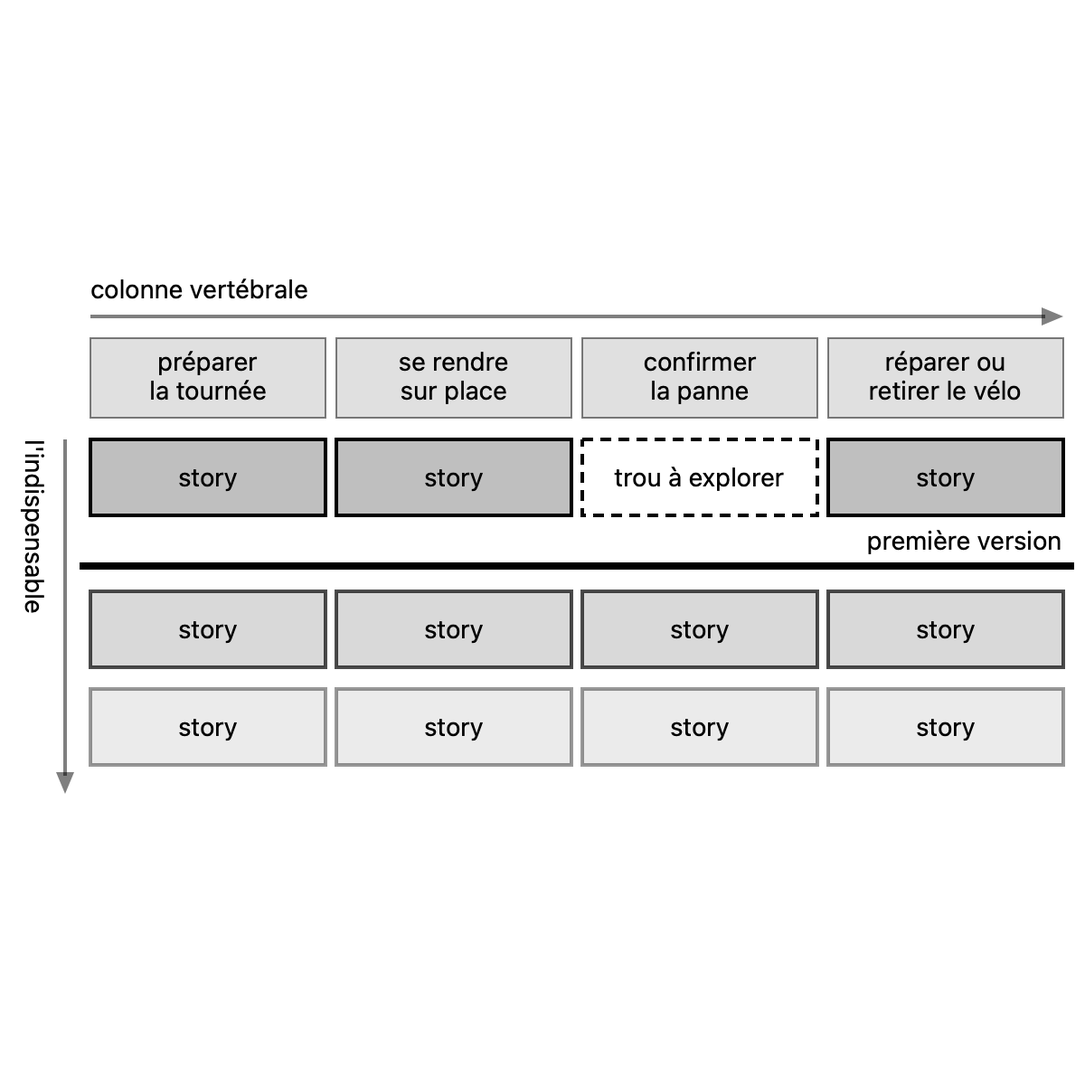
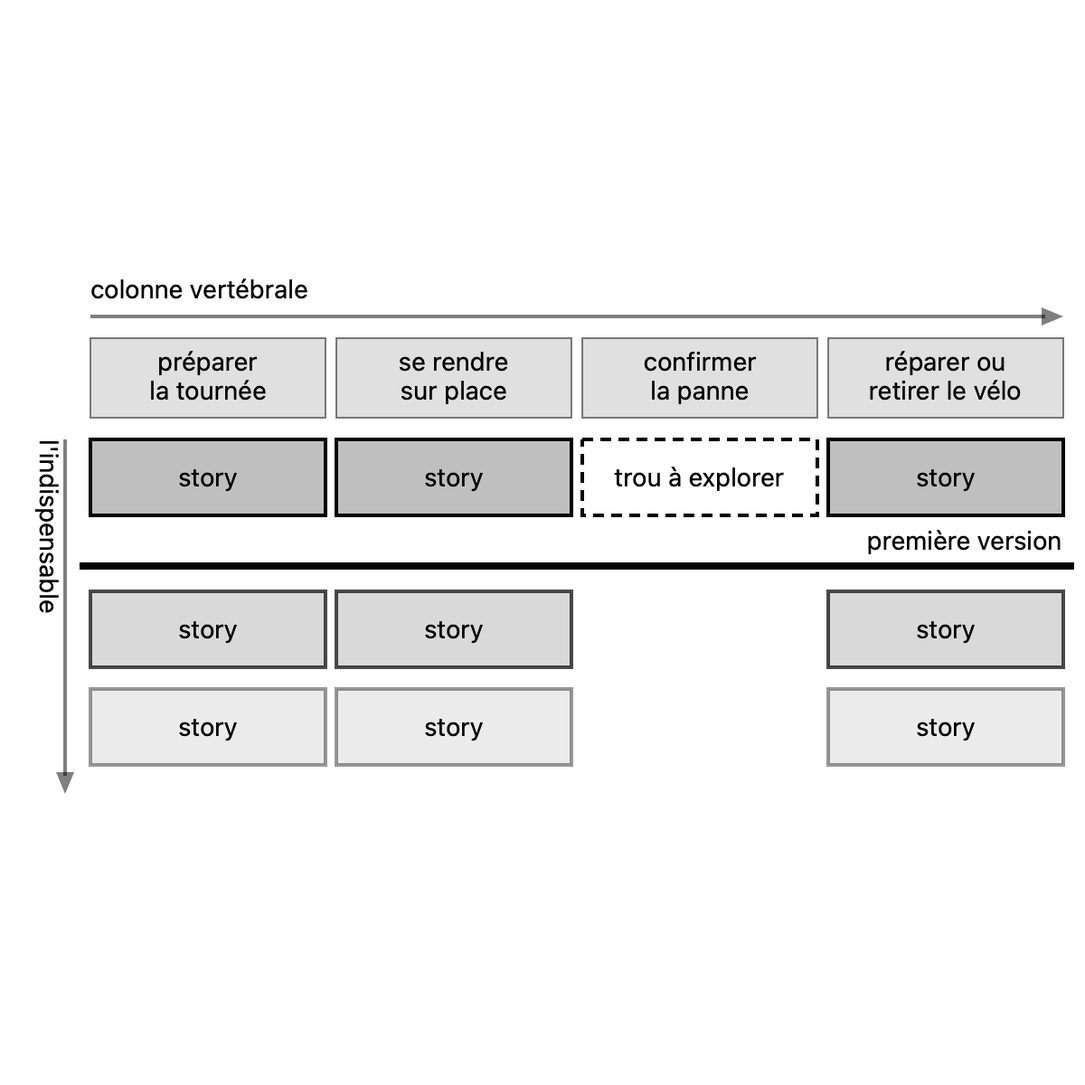
course(course:parcours-po): fix the review findings of concept 16

Changed region(s): [[0.5242, 0.5242, 0.7708, 0.7092], [0.0, 0.4008, 0.0617, 0.5858]]

diff --git a/courses/parcours-po/concepts/16-story-map/sources.md b/courses/parcours-po/concepts/16-story-map/sources.md
@@ -1,8 +1,7 @@
 Ce fichier couvre ce que le fichier du concept affirme, d'après sa ligne de
 `plan.md` et les promesses des concepts déjà écrits (5a1 et
 Pièges de 5 : le parcours organise les stories en story map ; 2 : une mesure de succès par
-version, Patton ; 13 : « pour quand ? » renvoyé en 16c). Les faits du fil rouge (la journée de
-Étienne, fait F7 ; ses vues ; « première version : le point du matin » ; Étienne qui demande
+version, Patton ; 13 : « pour quand ? » renvoyé en 16c). Les faits du fil rouge (la journée d'Étienne, fait F7 ; ses vues ; « première version : le point du matin » ; Étienne qui demande
 « pour quand ? ») sont inventés et n'ont pas de source.
 
 Deux écarts entre les sources et les consignes du lot sont relevés (détail en « Non vérifié ») : chez Patton, une tranche de version traverse toute la
@@ -15,41 +14,41 @@ Guide 2020 ne dit pas qui fait la prévision d'une version.
 |---|---|---|---|
 | La story map est une pratique de Jeff Patton : un choix d'école, pas un texte de consensus (Consensus et choix d'école, 16a) | [S2], [S3], [S4], [S1] | Patton la décrit sur son site (2008) et dans son mémo « Story Map Concepts » (2013) ; livre avec Peter Economy, O'Reilly, 2014. Le Scrum Guide 2020 ne la nomme pas (« story » : aucune occurrence, déjà vérifié en `concepts/05-user-story/sources.md`) | école |
 | En haut de la carte, les activités de l'utilisateur, de gauche à droite dans l'ordre où l'on raconte sa journée ou son parcours : la colonne vertébrale (16a, Schéma) | [S3], [S2] | Mémo : « Activities organize tasks done by similar people at similar times to reach a goal » ; « The left to right axis in a story map is organized in the order you'd tell the story about your user » ; « Activities and tasks at a higher goal level give the story map it's structure. The backbone is arranged in a narrative flow. » Article de 2008 : « At the top of the map are "big stories." I call them user activities » ; les éléments du haut ressemblent à des vertèbres, d'où « backbone ». La colonne vertébrale contient les activités et les tâches de haut niveau, pas les activités seules | école |
-| Partir d'une journée type de l'utilisateur (16a, Consignes et situation de la journée d'Étienne) | [S3] | Mémo, étape « Map the Big Picture » : « Imagine a typical day in your user's life with your new product. Map the steps they take as user tasks left to right. » Appui direct pour la journée d'Étienne | école |
+| Partir d'une journée type de l'utilisateur (16a, Consignes) | [S3] | Mémo, étape « Map the Big Picture » : « Imagine a typical day in your user's life with your new product. Map the steps they take as user tasks left to right. » Appui direct pour la journée d'Étienne | école |
 | Les stories se rangent sous l'activité qu'elles servent, de haut en bas : en haut ce qui est indispensable, plus bas ce qui l'est moins (16a) | [S2], [S3] | Article de 2008 : « I don't prioritize the backbone. It just "is." I do prioritize the ribs » ; « Place them high to indicate they're absolutely necessary, lower to indicate they're less necessary. » Mémo : les sous-tâches, détails et variantes « hang down to form the ribs » | école |
-| Les tâches de l'utilisateur font de bons titres de story ; la tâche va après « je veux », l'activité après « afin de » (16a, « Ce qui marche » de « La journée d'Étienne rangée par vues ») | [S3] | Mémo : « User Tasks make great story titles! » ; « the task fits nicely right after "I want to," the activity fits nicely right after "so that…" ». Rattache la carte au format de story (5) | école |
+| Les tâches de l'utilisateur font de bons titres de story ; la tâche va après « je veux », l'activité après « afin de » (banque « La journée d'Étienne rangée par vues », « Ce qui marche ») | [S3] | Mémo : « User Tasks make great story titles! » ; « the task fits nicely right after "I want to," the activity fits nicely right after "so that…" ». Rattache la carte au format de story (5) | école |
 | La carte sert à voir le tout, pas à décrire un flux avec la précision d'un modèle de processus (16a, Consignes et banque « La journée d'Étienne rangée par vues ») | [S3] | Mémo : « Story maps are for looking at the big picture » ; « If you're looking for the precision of a workflow model, flow chart, or UML model, then a story map isn't your best choice. » | école |
-| La carte complète le backlog ordonné, elle ne le remplace pas ; le PO garde l'ordre (16a, renvoi 1b, 13) | [S1], [S2] ; `concepts/01-produit-et-po/sources.md`, `concepts/13-ordonner-backlog/sources.md` | SG 2020 : le backlog est « an emergent, ordered list », « the single source of work » ; le PO répond de l'ordre (déjà vérifié en 1b, 13). Patton va plus loin : la carte est « a better version of a product backlog », et il regrette qu'on la jette « in favor of putting stories into a flat-backlog ». « Complète, ne remplace pas » est donc un choix du cours, compatible avec le SG (une seule liste ordonnée) ; ce n'est pas la position de Patton. Voir « Non vérifié » | cours |
-| Piège : prendre la carte pour la hiérarchie epic, feature, story (Pièges, renvoi 4) | [S3] ; `concepts/04-hierarchie/sources.md` | Les lignes de la carte sont des niveaux d'objectif de l'utilisateur (« Summary », « Functional », « Sub-Functional ») et un axe narratif, pas des niveaux de découpage du travail : mémo, encadré « Goal-Level ». Que des apprenants confondent les deux : choix du cours (les deux ont des niveaux empilés), sans source externe | cours |
-| Ce que la carte montre et que l'arbre de 4 ne montre pas : une même vue a des stories sous plusieurs activités ; une activité sans story se voit, comme un trou à explorer avec l'utilisateur (banque « La journée d'Étienne rangée par vues », 16b1) | [S3] ; `concepts/04-hierarchie/sources.md` | Ajout de la rédaction. Choix du cours, déduit de la structure de la carte (stories rangées sous l'activité qu'elles servent, [S3] « Story maps are for looking at the big picture ») ; « trou à explorer » n'est pas une formule de Patton. Qu'une tranche ne soit pas complète tant qu'un trou n'est pas exploré, et que l'utilisateur dise si sa journée tient sans l'activité vide : choix du cours, déduit de « span the users and use of the product » [S3]. Les stories d'Étienne et leur moment sont des propos d'exercice | cours |
-| Deux stories de deux colonnes et de la même tranche n'ont pas d'ordre entre elles sur la carte ; la carte ne donne pas d'ordre unique (banque « On peut supprimer le backlog ? ») | [S2] ; `concepts/03-backlog-produit/sources.md` | Ajout de la rédaction. Patton ordonne les stories de haut en bas sous chaque activité (« Place them high to indicate they're absolutely necessary ») ; la carte ne donne pas d'ordre unique entre colonnes : choix du cours, à l'appui du choix « la carte complète le backlog » (voir « Non vérifié ») | cours |
+| La carte complète le backlog ordonné, elle ne le remplace pas ; le PO garde l'ordre (16a) | [S1], [S2] ; `concepts/01-produit-et-po/sources.md`, `concepts/13-ordonner-backlog/sources.md` | SG 2020 : le backlog est « an emergent, ordered list », « the single source of work » ; le PO répond de l'ordre (déjà vérifié en 1b, 13). Patton va plus loin : la carte est « a better version of a product backlog », et il regrette qu'on la jette « in favor of putting stories into a flat-backlog ». « Complète, ne remplace pas » est donc un choix du cours, compatible avec le SG (une seule liste ordonnée) ; ce n'est pas la position de Patton. Voir « Non vérifié » | cours |
+| Piège : prendre la carte pour la hiérarchie epic, feature, story (Pièges) | [S3] ; `concepts/04-hierarchie/sources.md` | Les lignes de la carte sont des niveaux d'objectif de l'utilisateur (« Summary », « Functional », « Sub-Functional ») et un axe narratif, pas des niveaux de découpage du travail : mémo, encadré « Goal-Level ». Que des apprenants confondent les deux : choix du cours (les deux ont des niveaux empilés), sans source externe | cours |
+| Ce que la carte montre et que l'arbre de 4 ne montre pas : une même vue a des stories sous plusieurs activités ; une activité sans story se voit, comme un trou à explorer avec l'utilisateur (16a, banque « La journée d'Étienne rangée par vues ») | [S3] ; `concepts/04-hierarchie/sources.md` | Ajout de la rédaction. Choix du cours, déduit de la structure de la carte (stories rangées sous l'activité qu'elles servent, [S3] « Story maps are for looking at the big picture ») ; « trou à explorer » n'est pas une formule de Patton. Qu'une tranche ne soit pas complète tant qu'un trou n'est pas exploré, et que l'utilisateur dise si sa journée tient sans l'activité vide : choix du cours, déduit de « span the users and use of the product » [S3]. Les stories d'Étienne et leur moment sont des propos d'exercice | cours |
+| Deux stories de deux colonnes et de la même tranche n'ont pas d'ordre entre elles sur la carte ; la carte ne donne pas d'ordre unique (16a, banque « On peut supprimer le backlog ? ») | [S2] ; `concepts/03-backlog-produit/sources.md` | Ajout de la rédaction. Patton ordonne les stories de haut en bas sous chaque activité (« Place them high to indicate they're absolutely necessary ») ; la carte ne donne pas d'ordre unique entre colonnes : choix du cours, à l'appui du choix « la carte complète le backlog » (voir « Non vérifié ») | cours |
 | Une tranche de version : une ligne tracée en travers de la carte qui regroupe les stories d'une version ; ce n'est pas une tranche horizontale au sens du concept 9 (16b1, Explication et erreurs fréquentes) | [S3], [S2] | Mémo : « Use a tape line to identify slices of tasks » ; article de 2008 : une bande de ruban adhésif crée « horizontal swim lanes for each release » | école |
-| La première version utile : le plus petit ensemble de stories qui permet aux utilisateurs visés d'atteindre leur but (16b) | [S3] | Mémo : « The smallest number of tasks that allow your specific target users to reach their goal compose a viable product release. » | école |
-| La tranche traverse toute la colonne vertébrale (16b ; écart avec la situation « première version : le point du matin ») | [S3], [S2] | Mémo, étape 4 : « Slice your map into holistic product releases that span the users and use of the product. » Article de 2008 : la colonne vertébrale ne se priorise pas, « we'll need all of them to deliver a minimum viable product » ; « That way we never release a car without brakes ». Chez Patton, la première tranche prend un peu de chaque activité, pas une activité entière. Voir « Non vérifié » | école |
-| Une version vise un résultat ; on l'écrit à côté de la tranche (16b, renvoi 2) | [S3] | Mémo : « Identify the target outcomes of your slice in a sticky note or card to the left of the slice » ; étape 4 : « For each release name the target outcomes and Impact. » | école |
-| Une mesure de succès par version (Patton), dite sans cible chiffrée (16b ; promesse de 2) | [S3] | Mémo, étape 4 : « For each release, identify product success metrics. Answer the question: "what would we measure to determine if this product was successful?" Ideally you'll find specific changes in user's behavior ». Patton demande quoi mesurer, il ne demande pas de cible : la mesure se nomme sans chiffre (la cible reste non fixée au fil rouge). Confirme ce que `concepts/02-objectif-produit-resultat/sources.md` [S17] tenait du cadrage | école |
-| Première version pensée comme une couche : un piège (Pièges, renvoi 9) | [S2], [S3] ; `concepts/09-decoupage-vertical/sources.md` | Article de 2008 : on construit « not a feature at a time, but rather by building up all major features a little at a time », en avançant « left to right, and top to bottom ». La tranche verticale est déjà sourcée en 9 (Wake, Lawrence) : renvoi | cours |
-| MVP au sens de Ries : la version d'un nouveau produit qui permet d'apprendre le plus sur les clients pour le moindre effort (16b, glossaire ; repris en 17) | [S5] | Ries, 3 août 2009 : « the minimum viable product is that version of a new product which allows a team to collect the maximum amount of validated learning about customers with the least effort. » Source primaire (blog de l'auteur). Le livre *The Lean Startup* (2011) n'a pas été lu | école |
+| La première version utile : le plus petit ensemble de stories qui permet aux utilisateurs visés d'atteindre leur but (16b1) | [S3] | Mémo : « The smallest number of tasks that allow your specific target users to reach their goal compose a viable product release. » | école |
+| La tranche traverse toute la colonne vertébrale (16b1 ; banque « Le point du matin d'abord ») | [S3], [S2] | Mémo, étape 4 : « Slice your map into holistic product releases that span the users and use of the product. » Article de 2008 : la colonne vertébrale ne se priorise pas, « we'll need all of them to deliver a minimum viable product » ; « That way we never release a car without brakes ». Chez Patton, la première tranche prend un peu de chaque activité, pas une activité entière. Voir « Non vérifié » | école |
+| Une version vise un résultat ; on l'écrit à côté de la tranche (16b1) | [S3] | Mémo : « Identify the target outcomes of your slice in a sticky note or card to the left of the slice » ; étape 4 : « For each release name the target outcomes and Impact. » | école |
+| Une mesure de succès par version (Patton), dite sans cible chiffrée (16b1) | [S3] | Mémo, étape 4 : « For each release, identify product success metrics. Answer the question: "what would we measure to determine if this product was successful?" Ideally you'll find specific changes in user's behavior ». Patton demande quoi mesurer, il ne demande pas de cible : la mesure se nomme sans chiffre (la cible reste non fixée au fil rouge). Confirme ce que `concepts/02-objectif-produit-resultat/sources.md` [S17] tenait du cadrage | école |
+| Première version pensée comme une couche : un piège (16b1, Pièges) | [S2], [S3] ; `concepts/09-decoupage-vertical/sources.md` | Article de 2008 : on construit « not a feature at a time, but rather by building up all major features a little at a time », en avançant « left to right, and top to bottom ». La tranche verticale est déjà sourcée en 9 (Wake, Lawrence) : renvoi | cours |
+| MVP au sens de Ries : la version d'un nouveau produit qui permet d'apprendre le plus sur les clients pour le moindre effort (16b2) | [S5] | Ries, 3 août 2009 : « the minimum viable product is that version of a new product which allows a team to collect the maximum amount of validated learning about customers with the least effort. » Source primaire (blog de l'auteur). Le livre *The Lean Startup* (2011) n'a pas été lu | école |
 | Chez Ries, le MVP n'est pas un produit au rabais : piège « MVP pris pour une version bâclée » (Pièges) | [S5] | Ries : « MVP, despite the name, is not about creating minimal products » ; la définition « requires judgment » selon le contexte. Appui pour le piège ; « bâclée » est le mot du cours | école |
-| L'usage courant : le MVP est la première version, avec juste assez pour servir les premiers utilisateurs (16b, glossaire) | [S6], [S3] | Wikipédia : « a version of a product with just enough features to be usable by early customers who can then provide feedback ». Patton lui-même emploie le terme dans ce sens : chaque version de sa carte est « a minimal viable product release » (mémo, étape 4). Source secondaire pour l'usage courant ; l'exemple de Patton est primaire |  |
-| Patton emploie « walking skeleton » pour la première tranche : un autre usage que celui du cours, qui réserve le terme au sens de Cockburn (16b, renvoi 9, glossaire) | [S2], [S3] ; `concepts/09-decoupage-vertical/sources.md` [S8] | Article de 2008 : les stories du haut décrivent « the smallest possible system you could build that would give you end to end functionality. This is what Alistair Cockburn refers to as the "walking skeleton". I always try to build this first. » Mémo : les tranches servent à repérer « small experiments, minimal viable product releases, or a "walking skeleton" version of your product » ; la phase « Opening Game » de la première version construit « a "functional walking skeleton" […] the simplest possible functional version of the product ». Patton rattache donc lui-même le terme à Cockburn mais l'applique à une version utilisable ; Cockburn le définit comme une implémentation qui relie les composants de l'architecture (vérifié en 9). À dire comme un autre usage, sans l'enseigner | école |
+| L'usage courant : le MVP est la première version, avec juste assez pour servir les premiers utilisateurs (16b2) | [S6], [S3] | Wikipédia : « a version of a product with just enough features to be usable by early customers who can then provide feedback ». Patton lui-même emploie le terme dans ce sens : chaque version de sa carte est « a minimal viable product release » (mémo, étape 4). Source secondaire pour l'usage courant ; l'exemple de Patton est primaire |  |
+| Patton emploie « walking skeleton » pour la première tranche : un autre usage que celui du cours, qui réserve le terme au sens de Cockburn (16b1, Pièges) | [S2], [S3] ; `concepts/09-decoupage-vertical/sources.md` [S8] | Article de 2008 : les stories du haut décrivent « the smallest possible system you could build that would give you end to end functionality. This is what Alistair Cockburn refers to as the "walking skeleton". I always try to build this first. » Mémo : les tranches servent à repérer « small experiments, minimal viable product releases, or a "walking skeleton" version of your product » ; la phase « Opening Game » de la première version construit « a "functional walking skeleton" […] the simplest possible functional version of the product ». Patton rattache donc lui-même le terme à Cockburn mais l'applique à une version utilisable ; Cockburn le définit comme une implémentation qui relie les composants de l'architecture (vérifié en 9). À dire comme un autre usage, sans l'enseigner | école |
 | La planification d'une version n'est pas dans le Scrum Guide 2020 ; elle relève des référentiels de PO, rangés en consensus (pratique établie, hors du Scrum Guide) (Consensus et choix d'école) | [S1], [S7], [S8] | SG 2020 : « release » n'apparaît qu'une fois (la revue n'est pas « a gate to releasing value ») ; pas de plan de version. CSPO 2022 : 2.4 « list the components of a product plan or forecast with stakeholders », 2.5 « describe how to plan a product release », 2.6 « explain at least two approaches to identify small, valuable, and usable increments ». PSPO : domaine « Forecasting & Release Planning » (cadrage T-018a §8) | consensus |
-| Tout ce qui entre dans l'incrément remplit la DoD, MVP ou pas ; ce qui ne la remplit pas n'en fait pas partie : un MVP « bâclé » ne s'accepte pas (16b2, Choix du cours) | [S1] ; `concepts/00-scrum/sources.md`, `concepts/11-dor-dod/sources.md` | Ajout de la rédaction. SG 2020 : « Work cannot be considered part of an Increment unless it meets the Definition of Done » (déjà vérifié en 0 et 11a). L'application au MVP est un choix du cours, listée en « Choix du cours » ; le MVP de Ries qui n'est pas un incrément (une expérience) relève de 17 | cours |
-| Le sponsor n'ordonne pas le backlog (16b2, erreurs fréquentes) | `concepts/14-parties-prenantes/sources.md`, `concepts/01-produit-et-po/sources.md` | Ajout de la rédaction. Renvoi : déjà vérifié en 1b et 14 (le PO seul ordonne ; l'organisation respecte ses décisions) |  |
-| Le Scrum Guide cite des pratiques de prévision sans en imposer aucune (Consensus, 16c) | [S1] | SG 2020, section « Sprint » : « Various practices exist to forecast progress, like burn-downs, burn-ups, or cumulative flows. While proven useful, these do not replace the importance of empiricism. In complex environments, what will happen is unknown. Only what has already happened may be used for forward-looking decision making. » Déjà cité en `concepts/13-ordonner-backlog/sources.md` comme source portée par 16 | consensus |
+| Tout ce qui entre dans l'incrément remplit la DoD, MVP ou pas ; ce qui ne la remplit pas n'en fait pas partie : un MVP « bâclé » ne s'accepte pas (16b2) | [S1] ; `concepts/00-scrum/sources.md`, `concepts/11-dor-dod/sources.md` | Ajout de la rédaction. SG 2020 : « Work cannot be considered part of an Increment unless it meets the Definition of Done » (déjà vérifié en 0 et 11a). L'application au MVP est un choix du cours, listée en « Choix du cours » ; le MVP de Ries qui n'est pas un incrément (une expérience) relève de 17 | cours |
+| Le sponsor n'ordonne pas le backlog (banque « Un MVP, même bâclé », « Erreurs fréquentes ») | `concepts/14-parties-prenantes/sources.md`, `concepts/01-produit-et-po/sources.md` | Ajout de la rédaction. Renvoi : déjà vérifié en 1b et 14 (le PO seul ordonne ; l'organisation respecte ses décisions) |  |
+| Le Scrum Guide cite des pratiques de prévision sans en imposer aucune (Consensus et choix d'école) | [S1] | SG 2020, section « Sprint » : « Various practices exist to forecast progress, like burn-downs, burn-ups, or cumulative flows. While proven useful, these do not replace the importance of empiricism. In complex environments, what will happen is unknown. Only what has already happened may be used for forward-looking decision making. » Déjà cité en `concepts/13-ordonner-backlog/sources.md` comme source portée par 16 | consensus |
 | Une prévision se fonde sur ce qui s'est déjà passé (16c) | [S1] | Même passage : « Only what has already happened may be used for forward-looking decision making » ; au Sprint Planning, plus les Developers connaissent « their past performance, their upcoming capacity, and their Definition of Done », plus ils ont confiance dans « their Sprint forecasts » | consensus |
-| La taille des éléments vient des Developers (Consensus, 16c, renvoi 7) | [S1] ; `concepts/01-produit-et-po/sources.md` | « The Developers who will be doing the work are responsible for the sizing. The Product Owner may influence the Developers by helping them understand and select trade-offs. » Déjà enseigné : renvoi | consensus |
+| La taille des éléments vient des Developers (Consensus et choix d'école) | [S1] ; `concepts/01-produit-et-po/sources.md` | « The Developers who will be doing the work are responsible for the sizing. The Product Owner may influence the Developers by helping them understand and select trade-offs. » Déjà enseigné : renvoi | consensus |
 | La prévision d'un sprint est celle des Developers (16c) | [S1] | « Sprint forecasts » des Developers (Sprint Planning, sujet deux). Pour la prévision d'une version, voir la ligne suivante et « Non vérifié » | consensus |
-| La prévision d'une version vient des Developers (16c ; glossaire « Prévision ») | [S1], [S9], [S7] | Partiellement vérifié. SG 2020 : les Developers font la taille et la prévision du sprint ; le guide ne dit pas qui fait la prévision d'une version. SG 2017 [S9] confiait au PO le suivi du travail restant vers un but, comparé d'une revue à l'autre « to assess progress toward completing projected work by the desired time for the goal » ; ce passage a disparu en 2020. CSPO 2.4 : le PO établit un plan ou une prévision « with stakeholders ». Formulation tenable : la prévision se construit à partir de la taille et du rythme mesurés des Developers ; le PO ne l'invente pas, il la porte aux parties prenantes. Voir « Non vérifié » | cours |
-| Une prévision n'est pas une promesse ; les engagements (au sens du glossaire) sont l'objectif produit, l'objectif de sprint et la DoD (Objectif, Consensus, 16c ; glossaire) | [S1], [S10] | SG 2020 : les engagements des artefacts sont l'objectif produit, l'objectif de sprint et la DoD (déjà vérifié en 0) ; le choix des éléments du sprint est une prévision (« Sprint forecasts »). Scrum.org [S10] : le Guide de 2011 a remplacé « commit » par « forecast » pour le travail choisi, car « commitment usually relates to undertaken duties » alors que « forecast » renvoie à des hypothèses fondées sur des faits ; une prévision qui ne se réalise pas fait apprendre, elle ne se « rembourse » pas. Source secondaire (auteur non identifié sur la page), cohérente avec le texte du SG | consensus |
+| La prévision d'une version vient des Developers (16c) | [S1], [S9], [S7] | Partiellement vérifié. SG 2020 : les Developers font la taille et la prévision du sprint ; le guide ne dit pas qui fait la prévision d'une version. SG 2017 [S9] confiait au PO le suivi du travail restant vers un but, comparé d'une revue à l'autre « to assess progress toward completing projected work by the desired time for the goal » ; ce passage a disparu en 2020. CSPO 2.4 : le PO établit un plan ou une prévision « with stakeholders ». Formulation tenable : la prévision se construit à partir de la taille et du rythme mesurés des Developers ; le PO ne l'invente pas, il la porte aux parties prenantes. Voir « Non vérifié » | cours |
+| Une prévision n'est pas une promesse ; les engagements (au sens du glossaire) sont l'objectif produit, l'objectif de sprint et la DoD (Objectif, Consensus et choix d'école, 16c) | [S1], [S10] | SG 2020 : les engagements des artefacts sont l'objectif produit, l'objectif de sprint et la DoD (déjà vérifié en 0) ; le choix des éléments du sprint est une prévision (« Sprint forecasts »). Scrum.org [S10] : le Guide de 2011 a remplacé « commit » par « forecast » pour le travail choisi, car « commitment usually relates to undertaken duties » alors que « forecast » renvoie à des hypothèses fondées sur des faits ; une prévision qui ne se réalise pas fait apprendre, elle ne se « rembourse » pas. Source secondaire (auteur non identifié sur la page), cohérente avec le texte du SG | consensus |
 | La prévision se donne en fourchette et se resserre à mesure qu'on avance (16c) | [S11] ; [S1] | Mountain Goat Software (Cohn) : « Rather than providing a single value forecast, the tool estimates velocity as a range » ; « A forecast over a longer number of sprints will be a narrower range ». Choix d'école (calcul par la vélocité), source de l'éditeur d'un outil et de formations : une allégation pour la méthode. Que la prévision se revoie à chaque sprint découle de l'empirisme du SG (inspection et adaptation au moins à chaque sprint) | école |
-| Ce qui fait bouger la prévision : l'ordre du backlog, une dépendance (16c, renvoi 10, 13) | `concepts/10-hors-perimetre-dependances/sources.md`, `concepts/13-ordonner-backlog/sources.md` | Choix du cours : ce qui passe devant retarde ce qui suit ; une dépendance non levée retarde l'élément (vérifié en 10). Aucune source externe consultée ne le formule pour la prévision | cours |
+| Ce qui fait bouger la prévision : l'ordre du backlog, une dépendance (16c) | `concepts/10-hors-perimetre-dependances/sources.md`, `concepts/13-ordonner-backlog/sources.md` | Choix du cours : ce qui passe devant retarde ce qui suit ; une dépendance non levée retarde l'élément (vérifié en 10). Aucune source externe consultée ne le formule pour la prévision | cours |
 | Story points et vélocité : des pratiques nommées, choix d'école, pas dans le Scrum Guide (16c) | [S1], [S12], [S11] | SG 2020 : « story point », « velocity », « estimat » : aucune occurrence (texte cherché). Jeffries (2019) rapporte que les points viennent d'XP, où les « ideal days » ont été rebaptisés « points », et écrit : « I may have invented story points, and if I did, I'm sorry now » ; il juge leur usage pour prédire « when we'll be done » « at best a weak idea ». Mountain Goat (Cohn) en fait un outil de prévision. Les nommer sans les attribuer (Jeffries lui-même n'en est pas sûr) | école |
-| En flux continu, la prévision passe par le temps de cycle (Consensus et choix d'école, renvoi A2d) | [S1] ; `concepts/A2-sans-sprint/sources.md` | SG 2020 cite « cumulative flows ». Le Kanban Guide (débit, temps de cycle) se source en A2, pas ici |  |
+| En flux continu, la prévision passe par le temps de cycle (16c, Consensus et choix d'école) | [S1] ; `concepts/A2-sans-sprint/sources.md` | SG 2020 cite « cumulative flows ». Le Kanban Guide (débit, temps de cycle) se source en A2, pas ici |  |
 | L'échéance du bilan au conseil n'est pas fixée (Pièges) ; une prévision chiffrée se pose en situation d'exercice (banque, 16c) | fil rouge | Consigne du lot ; F5 (le conseil examine la subvention une fois par an) ne donne pas de date. Pas de source |  |
-| On reparle de la prévision à chaque revue de sprint (16c, réponse attendue) | [S1] ; `concepts/00-scrum/sources.md` | Ajout de la rédaction. SG 2020, revue de sprint : « The Scrum Team presents the results of their work to key stakeholders and progress toward the Product Goal is discussed » (déjà vérifié en 0). Que la prévision d'une version y soit revue : application du cours | école |
-| Si une date compte vraiment, on la prend comme échéance et c'est le contenu qui varie ; on ne fixe pas à la fois la date et tout le contenu ; MoSCoW dit ce qui doit y être (banque « Il me faut une date ») | `concepts/13-ordonner-backlog/sources.md` | Ajout de la rédaction. Choix du cours, présenté comme tel. Appui indirect : MoSCoW classe ce qui doit être livré pour une échéance (DSDM, déjà vérifié en 13c). Aucune source externe consultée ne formule « date fixe, contenu variable ». Voir « Non vérifié » | cours |
-| Un accès qui bloque longtemps est un obstacle à escalader (16c, nuance) | `concepts/14-parties-prenantes/sources.md` | Ajout de la rédaction. Renvoi 14c, déjà vérifié |  |
+| La prévision se revoit à chaque sprint (16c) | [S1] ; `concepts/00-scrum/sources.md` | Ajout de la rédaction. SG 2020, revue de sprint : « The Scrum Team presents the results of their work to key stakeholders and progress toward the Product Goal is discussed » (déjà vérifié en 0). Que la prévision d'une version y soit revue : application du cours | école |
+| Si une date compte vraiment, on la prend comme échéance et c'est le contenu qui varie ; on ne fixe pas à la fois la date et tout le contenu ; MoSCoW dit ce qui doit y être (16c, Consensus et choix d'école ; banque « Il me faut une date ») | `concepts/13-ordonner-backlog/sources.md` | Ajout de la rédaction. Choix du cours, présenté comme tel. Appui indirect : MoSCoW classe ce qui doit être livré pour une échéance (DSDM, déjà vérifié en 13c). Aucune source externe consultée ne formule « date fixe, contenu variable ». Voir « Non vérifié » | cours |
+| Un accès qui bloque longtemps est un obstacle à escalader (16c) | `concepts/14-parties-prenantes/sources.md` | Ajout de la rédaction. Renvoi 14c, déjà vérifié |  |
 | La prévision du travail se distingue de la prévision des stations à risque, fonction du produit (Pièges) | fil rouge ; `concepts/09-decoupage-vertical/sources.md` | Ajout de la rédaction. Distinction de vocabulaire du cours ; pas de source |  |
 
 ## Références

diff --git a/construction/notes/S1-10-16-report.md b/construction/notes/S1-10-16-report.md
@@ -1,6 +1,6 @@
 # Migration report: concept 16
 
-Workflow `migrate-concept`, course `parcours-po`, concept folder `concepts/16-story-map/`. Paths in the course folder are relative to it; the old files are named from their repository folder (`parcours-po`, `parcours-po-website`).
+Workflow `migrate-concept` (run wf_4cab56e6-e3d), course `parcours-po`, concept folder `concepts/16-story-map/`. Paths in the course folder are relative to it; the old files are named from their repository folder (`parcours-po`, `parcours-po-website`).
 Old files: `parcours-po/course/concepts/16-story-map.md` (CF), `parcours-po/course/sources/16-story-map.md` (SF), `parcours-po-website/src/content/concepts/fr/16-story-map.mdx` (MDX), `components/schemas/Schema16.astro`, `components/schemas/Schema16Prevision.astro` (ASTRO).
 
 ## Summary
@@ -28,7 +28,7 @@ Each old diagram was inventoried (what it shows, by idea), drawn anew from its i
 
 ### `components/schemas/Schema16.astro`
 
-Figure legende, in « L'essentiel »: « Une story map. En haut, les activités de l'utilisateur dans l'ordre du récit (la colonne vertébrale) ; dessous, les stories, de l'indispensable au moins nécessaire. Une ligne en travers de la carte délimite la première version : un peu de chaque activité, avec un trou nommé là où une activité n'a pas encore de story. Story map : Patton, choix d'école. »
+Figure caption of the old site (the run's source text), in « L'essentiel »: « Une story map. En haut, les activités de l'utilisateur dans l'ordre du récit (la colonne vertébrale) ; dessous, les stories, de l'indispensable au moins nécessaire. Une ligne en travers de la carte délimite la première version : un peu de chaque activité, avec un trou nommé là où une activité n'a pas encore de story. Story map : Patton, choix d'école. »
 
 One idea.
 
@@ -71,7 +71,7 @@ Relations:
 - E13 traverse aussi les quatre colonnes, sous E1 : entre E1 et E13 la version suivante (E9), en dessous de E13 ce qui vient plus tard (E10)
 - E14 se lit à côté de E1 : le résultat visé et la mesure de la première version
 
-Key of the inventory: E8 « première version »; E9 « version suivante »; E10 « plus tard ». Key drawn: « première version »; « version suivante »; « plus tard ».
+Key of the inventory, at the run: E8 « première version »; E9 « version suivante »; E10 « plus tard ». Key drawn at the run: the same three. In the final drawing there is no key.
 
 | Old | New |
 |---|---|
@@ -79,7 +79,7 @@ Key of the inventory: E8 « première version »; E9 « version suivante »; E10
 
 ### `components/schemas/Schema16Prevision.astro`
 
-Figure legende, in the section 16c1: « Une prévision en fourchette. Les Developers la fondent sur la taille des stories et leur rythme ; l'ordre du backlog et une dépendance peuvent la déplacer ; elle est redessinée à chaque revue de sprint. Une prévision des Developers, pas une promesse. »
+Figure caption of the old site (the run's source text), in the section 16c1: « Une prévision en fourchette. Les Developers la fondent sur la taille des stories et leur rythme ; l'ordre du backlog et une dépendance peuvent la déplacer ; elle est redessinée à chaque revue de sprint. Une prévision des Developers, pas une promesse. »
 
 One idea.
 
@@ -90,7 +90,7 @@ Its sentences, where the inventory sends them (M11):
 
 #### prevision-fourchette.svg
 
-- Title: Une prévision en fourchette, que deux poids peuvent déplacer
+- Title at the run: Une prévision en fourchette, que deux poids peuvent déplacer (final: Une prévision en fourchette que l'ordre du backlog et une dépendance peuvent déplacer)
 - Caption (after the review pass): Une prévision des Developers, donnée en fourchette, que l'ordre du backlog et une dépendance peuvent déplacer. (one sentence)
 - Sub-concept: 16c
 - Idea: « Les Developers la fondent sur la taille des stories et leur rythme ; l'ordre du backlog et une dépendance peuvent la déplacer ; elle est redessinée à chaque revue de sprint. » (MDX section 16c1)
@@ -127,6 +127,7 @@ Self-check of the two diagrams against SPEC.md 7.2 (the contributor's pass, befo
 - story-map.svg: caption cut to one sentence (a). The teaching sentences are gone (b): the note « À côté de la première version… », the second ribbon label pair, the duplicate spine labels. The first version is the most marked (c): its ribbon, its stories and the dashed hole are `primary` at full opacity, the next stories fall to 0.7 and 0.4; the second ribbon and the key are removed. The « livrée » story is removed (e, d: not in concept.md nor in the caption). Labels kept are words of concept.md or the caption (d): « colonne vertébrale », the four activities, « story », « trou à explorer », « première version », « l'indispensable ». The whole drawing is declared and grouped under 16b1 (f), and the figure now sits in the 16b1 section (it was in « L'essentiel »).
 - prevision-fourchette.svg: caption cut to one sentence (a), title reworded without the image « poids » (d). Removed as teaching or not in the caption: the foundation line, the « redessinée à chaque revue de sprint » arrow, « borne basse », « borne haute », « de N à M sprints », « maintenant », « plus tard ». The two weights are the contrast (`secondary`, solid, not dashed: a dashed outline means uncertain) (c).
 - teaching.md « Schéma » rewritten for the two new drawings (h); sources.md first columns and cross-reference paths read as (g) asks: no change.
+- Fresh-agent review of the PR, 3 blocking findings, fixed: the hole is alone under « confirmer la panne » (rows 2 and 3 removed there, rows 2 and 3 now `muted`); « Schéma » says the map is shown at 16a without the version line and the hole, and no longer says to show it unasked; the first columns of `sources.md` name sections of `concept.md` or `teaching.md`.
 - Rules: B no citation line added (the old « Sous-concepts » cites the six cases already); C no orphan reference (every S1 to S12 is cited); « Voir « Sous-concepts » » pointer: none in the stances; « interne » reference type: none in the sources; 16a and 16c are bold-led paragraphs; « annexe A2d » is plain text.
 
 ## Writing choices

diff --git a/courses/parcours-po/concepts/16-story-map/teaching.md b/courses/parcours-po/concepts/16-story-map/teaching.md
@@ -26,7 +26,7 @@ l'outil du backlog (annexe A1) ; travailler sans sprint (annexe A2).
 
 ## Faits du fil rouge utilisés
 
-la journée d'Étienne (point du matin sur l'état du réseau, envoi
+La journée d'Étienne (point du matin sur l'état du réseau, envoi
 des régulateurs, suivi des incidents, bilan du soir) ; ses vues (stations vides, vélos en panne,
 locations du jour) ; la vue des stations vides, déjà livrée, doit servir à Étienne à envoyer les
 régulateurs plus tôt vers les stations qui se vident ; les deux autres vues ne sont pas
@@ -34,8 +34,7 @@ livrées ; l'accès à la table des locations n'est pas obtenu ; le blocage des 
 réclamé par Maud ; sprints de deux semaines ;
 l'objectif produit et sa mesure de résultat, dont la cible, les heures de pointe, la station
 vide et le calcul ne sont pas fixés ; Odile, sponsor. Situations d'exercice, qui ne deviennent
-pas des faits du fil rouge : les stories d'Étienne et le moment où il s'en sert, les cartes de
-Anna et de Dana, les propos de Diego, d'Odile et d'Étienne, la prévision de trois à cinq sprints
+pas des faits du fil rouge : les stories d'Étienne et le moment où il s'en sert, les cartes d'Anna et de Dana, les propos de Diego, d'Odile et d'Étienne, la prévision de trois à cinq sprints
 et le contenu de la tranche en 16c.
 
 ## Banque d'exemples
@@ -244,17 +243,19 @@ et le contenu de la tranche en 16c.
 
 ## Schéma
 
-Deux dessins, chacun sur un cas inventé, distinct de ceux de la banque.
+Deux dessins.
 
-1. **La carte (16b1)**, sur la journée d'un technicien de maintenance : le montrer après la
-   correction de 16b1, qui s'appuie sur 16a. En haut, une flèche de gauche à droite,
-   « colonne vertébrale », sous laquelle quatre cartes côte à côte : « préparer la tournée »,
-   « se rendre sur place », « confirmer la panne », « réparer ou retirer le vélo ». Dessous,
-   sous chaque activité, des cartes « story » empilées, avec à gauche une flèche vers le bas
-   légendée « l'indispensable ». Une ligne épaisse, « première version », traverse les quatre
-   colonnes : au-dessus, une story par activité, sauf sous la troisième, où une case en
-   pointillés porte « trou à explorer » ; dessous, deux rangées de stories de plus en plus
-   pâles. La première version est le plus marqué.
+1. **La carte (16b1)**, sur la journée d'un technicien de maintenance, cas inventé distinct de
+   ceux de la banque. À la demande seulement, et au 16a avec la seule colonne vertébrale, les
+   activités et les stories : sans la ligne « première version » et sans le trou. En haut, une
+   flèche de gauche à droite, « colonne vertébrale », sous laquelle quatre cartes côte à côte :
+   « préparer la tournée », « se rendre sur place », « confirmer la panne », « réparer ou
+   retirer le vélo ». Dessous, sous chaque activité sauf la troisième, des cartes « story »
+   empilées, avec à gauche une flèche vers le bas légendée « l'indispensable » en haut. Une ligne
+   épaisse, « première version », traverse les quatre colonnes : au-dessus, une story par
+   activité, sauf sous la troisième, où une case en pointillés porte « trou à explorer », et où
+   rien n'est dessiné dessous ; sous la ligne, deux rangées de stories plus pâles. La première
+   version est le plus marqué.
 2. **Pour quand ? (16c)** : une flèche horizontale, « sprints », et sur elle une barre épaisse,
    « fourchette », bornée par deux traits, avec au-dessus « prévision des Developers ». Sous la
    barre, deux cases, « l'ordre du backlog » et « une dépendance », chacune avec une flèche vers

diff --git a/courses/parcours-po/concepts/16-story-map/concept.md b/courses/parcours-po/concepts/16-story-map/concept.md
@@ -91,7 +91,7 @@ Patton emploie aussi « walking skeleton » pour cette première version utilisa
 
 ### 16b2 Les deux sens de MVP
 
-« MVP » a deux sens, et on dit toujours lequel on emploie [cours]. Pour Eric Ries [école], c'est la version d'un nouveau produit qui permet d'apprendre le plus sur ses clients pour le moindre effort ; il précise que ce n'est pas faire un produit minimal, et le concept 17 y revient (concept 17). Dans l'usage courant, c'est la première version, avec juste assez pour servir les premiers utilisateurs : la première tranche de la carte, au sens de 16b1.
+« MVP » a deux sens, et on dit toujours lequel on emploie [cours]. Pour Eric Ries [école], c'est la version d'un nouveau produit qui permet d'apprendre le plus sur ses clients pour le moindre effort ; il précise que ce n'est pas faire un produit minimal, et le concept 17 y revient. Dans l'usage courant, c'est la première version, avec juste assez pour servir les premiers utilisateurs : la première tranche de la carte, au sens de 16b1.
 
 Dans les deux cas, ce n'est pas une version au rabais. Tout ce qui entre dans l'incrément remplit la DoD, MVP ou pas (concepts 0 et 11a).
 
